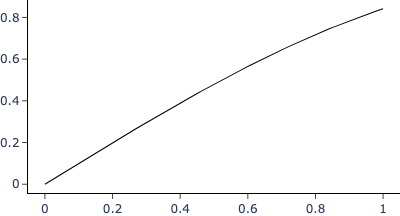
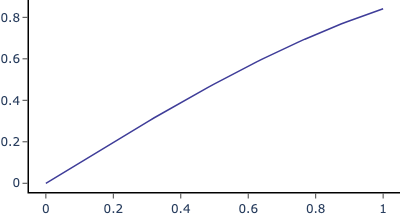
Colors, mesh

diff --git a/render.py b/render.py
@@ -1,4 +1,5 @@
 import numpy as np
+import numpy.linalg as la
 import plotly.graph_objects as go
 
 import util
@@ -25,12 +26,16 @@ class FigureBuilder:
         self.color = "gray"
         self.thickness = 1.5
 
-    def set_color_rgb(self, rgb):
+    def set_color_rgb(self, rgb, ctx=None):
         assert len(rgb) == 3 or len(rgb) == 4
         t = "rgb" if len(rgb) == 3 else "rgba"
         args = ','.join(str(int(c*255)) for c in rgb)
-        self.color = f"{t}({args})"
-        print("color", self.color)
+        color = f"{t}({args})"
+        if ctx is None:
+            self.color = color
+            print("color", self.color)
+        else:
+            print(f"ctx {ctx} not supported")
 
     util.Timer("add_points")
     def add_points(self, vertices, points):
@@ -51,22 +56,32 @@ class FigureBuilder:
 
     util.Timer("add_lines")
     def add_lines(self, vertices, lines):
+
         if vertices is not None:
             lines = vertices[lines]
-        for line in lines:
-            if self.dim == 2:
-                scatter_line = go.Scatter(
-                    x = line[:,0], y = line[:,1],
-                    mode='lines', line=dict(color=self.color, width=self.thickness),
-                    showlegend=False
-                )
-            elif self.dim == 3:
-                scatter_line = go.Scatter3d(
-                    x = line[:,0], y = line[:,1], z = line[:,2],
-                    mode='lines', line=dict(color=self.color, width=self.thickness),
-                    showlegend=False
-                )
-            self.data.append(scatter_line)
+
+        # Concatenate lines, separating them with np.nan so they are
+        # drawn as multiple line segments with a break between them.
+        # We use nan instead of None so we can use nanmin and nanmax on the array.
+        single = [lines[0]]
+        for line in lines[1:]:
+            single.append([[np.nan] * self.dim])
+            single.append(line)
+        lines = np.vstack(single).reshape((-1, self.dim))
+
+        if self.dim == 2:
+            scatter_line = go.Scatter(
+                x = lines[:,0], y = lines[:,1],
+                mode='lines', line=dict(color=self.color, width=self.thickness),
+                showlegend=False
+            )
+        elif self.dim == 3:
+            scatter_line = go.Scatter3d(
+                x = lines[:,0], y = lines[:,1], z = lines[:,2],
+                mode='lines', line=dict(color=self.color, width=self.thickness),
+                showlegend=False
+            )
+        self.data.append(scatter_line)
 
     # TODO: move triangulation inside?
     util.Timer("add_mesh")
@@ -75,10 +90,6 @@ class FigureBuilder:
         if self.dim==3:
 
             vertices, polys = need_vertices(vertices, polys)
-
-
-            #{Hue[0.1, 0.7, 1], Hue[0.6, 0.6, 1], Hue[0.2, 0.6, .9], Hue[0, 0.7, 1], Hue[.75,0.5,1]}
-            
 
             with util.Timer("triangulate"):
                 ijks = []
@@ -89,18 +100,29 @@ class FigureBuilder:
                     ijks.extend(tris)
                 ijks = np.array(ijks)
 
+            lighting = dict(
+                ambient = 0.5,
+                roughness = 0.5,
+                diffuse = 1.0,
+                specular = 0.8,
+                fresnel = 0.1
+            )
+
             mesh = go.Mesh3d(
                 x=vertices[:,0], y=vertices[:,1], z=vertices[:,2],
                 i=ijks[:,0], j=ijks[:,1], k=ijks[:,2],
+                lighting = lighting,
+                lightposition = dict(x=10000, y=10000, z=10000),
                 # TODO: hmm, colorscale is figure-level, isn't it?
                 #showscale=self.options.showscale,
                 #colorscale=self.options.colorscale,
                 #colorbar=dict(thickness=10),
                 #intensity=vertices[:,2],
                 #color = "rgb(1,.72,.3,1)",
-                color = "rgba(250,180,75,250)",
+                color = self.color,
                 hoverinfo="none"
             )
+
 
         elif self.dim==2:
             # this is hacky because
@@ -138,7 +160,7 @@ class FigureBuilder:
                 data = np.hstack([(trace.x, trace.y, trace.z) for trace in self.data])
             else:
                 data = np.hstack([(trace.x, trace.y) for trace in self.data])
-            data_range = np.array([data.min(axis=1), data.max(axis=1)]).T
+            data_range = np.array([np.nanmin(data, axis=1), np.nanmax(data, axis=1)]).T
 
         #padding = (data_range[:,1] - data_range[:,0]) * 0.05
         #plot-range = np.array([data_range[:,0] - padding, data_range[:,1] + padding]).T
@@ -154,8 +176,9 @@ class FigureBuilder:
                     showspikes = False,
                     ticks="outside",
                     range = self.options.plot_range[i],
-                    #title = p,
                     linecolor = "black",
+                    linewidth = 1.5,
+                    title = None,
                     #showline = False
                     #ticks = None
                     #showticklabels=False
@@ -172,32 +195,43 @@ class FigureBuilder:
 
         elif self.dim == 3:
 
+            # Boxed
             if self.options.boxed:
                 vertices = np.array(np.meshgrid(*plot_range)).reshape((3,-1)).T
                 lines = [(i, i^k) for i in range(8) for k in [1,2,4] if not i&k]
+                # TODO: safe because this is last, but really should have push/pop?
+                self.set_color_rgb((0,0,0))
                 self.add_lines(vertices, lines)
+
+            # ViewPoint
+            vp = self.options.view_point
+            vp = vp / la.norm(vp) * la.norm((1.25, 1.25, 1.25))
+            xyz_to_dict = lambda xyz: {n: v for n, v in zip("xyz", xyz)}
+            camera = dict(eye = xyz_to_dict(vp))
 
             scene = dict(
                 aspectmode = "manual",
                 aspectratio = {p: self.options.box_ratios[i] for i, p in enumerate("xyz")},
+                camera = camera,
             )
             for i, p in enumerate("xyz"):
                 scene[p+"axis"] = dict(
                     visible = self.options.axes[i],
                     range = plot_range[i],
                     showbackground = False,
-                    title = p,
+                    title = "",
                     showline = True,
+                    showgrid = False,
                     linecolor = "black",
-                    linewidth = 1,
-                    showspikes=False,
+                    linewidth = 1.5,
+                    showspikes = False,
                     ticks="outside",
                 )
             layout = go.Layout(
                 margin = dict(l=0, r=0, t=0, b=0),
                 plot_bgcolor = "red", #'rgba(0,0,0,0)',
-                width=self.options.image_size[0],
-                height=self.options.image_size[1],
+                width = self.options.image_size[0],
+                height = self.options.image_size[1],
                 scene = scene,
             )
 

diff --git a/consumer.py b/consumer.py
@@ -84,6 +84,8 @@ class GraphicsOptions:
             # BoxRatios
             self.box_ratios = get_option("System`BoxRatios")            
 
+            # ViewPoint
+            self.view_point = get_option("System`ViewPoint")
 
         # full set - comment out as implemented
         alignment_point = get_option("System`AlignmentPoint")
@@ -134,7 +136,7 @@ class GraphicsOptions:
             view_projection = get_option("System`ViewProjection")
             clip_planes_style = get_option("System`ClipPlanesStyle")
             controller_linking = get_option("System`ControllerLinking")
-            view_point = get_option("System`ViewPoint")
+            #view_point = get_option("System`ViewPoint")
             axes_edge = get_option("System`AxesEdge")
             rotation_action = get_option("System`RotationAction")
             #box_ratios = get_option("System`BoxRatios")
@@ -230,6 +232,21 @@ class GraphicsConsumer:
 
     def process(self, expr):
 
+        def directives(ctx, expr):
+
+            print("yielding from ctx", ctx, expr.head)
+
+            if color := core.expression_to_color(expr):
+                rgba = color.to_rgba()
+                yield (sym.SymbolRGBColor, rgba, ctx)
+
+            elif expr.head == sym.SymbolEdgeForm:
+                for e in expr.elements:
+                    yield from directives("edge", e)
+
+            else:
+                print(f"uknown graphics element {expr.head}")
+
         if expr.head == sym.SymbolList:
             for e in expr:
                 yield from self.process(e)
@@ -249,12 +266,8 @@ class GraphicsConsumer:
         elif expr.head in (sym.SymbolPoint, sym.SymbolPointBox):
             yield from self.item(sym.SymbolPoint, expr.elements[0], wanted_depth=2)
 
-        elif color := core.expression_to_color(expr):
-            rgba = color.to_rgba()
-            yield (sym.SymbolRGBColor, rgba)
-            
         else:
-            print(f"uknown graphics element {expr.head}")
+            yield from directives(None, expr)
 
     def items(self):
 

diff --git a/demos/demo_050_3d_grid.m b/demos/demo_050_3d_grid.m
@@ -3,7 +3,7 @@ Grid[{
         "This",
         Plot3D[
             Sin[x]*Cos[y], {x,0,10}, {y,0,10},
-            PlotPoints->{200,200}, Axes->False
+            Axes->False
         ],
 
         "is a"
@@ -11,7 +11,7 @@ Grid[{
     {
         Plot3D[
             Sin[(x^2+y^2)] / Sqrt[x^2+y^2+1], {x,-3,3}, {y,-3,3},
-            PlotPoints->{200,200}, Axes->False
+            Axes->False
         ],
         "grid",
         x+y^2

diff --git a/demos/demo_180_man_eex.m b/demos/demo_180_man_eex.m
@@ -1,8 +1,9 @@
 Manipulate[
     Plot3D[
-        {-Abs[Exp[Exp[x + I y]]], -1}, {x,-xlim,xlim}, {y,-ylim,ylim},
-        PlotPoints->{200,200},
-        PlotRange->{Automatic, Automatic, {-zlim,2}}
+        {Exp[Exp[x + I y]], 1},
+        {x,-xlim,xlim}, {y,-ylim,ylim},
+        PlotRange->{Automatic, Automatic, {-2,zlim}},
+        BoxRatios->{1,1,1}
     ],
     {{xlim,1.5}, 1, 2, 0.05},
     {{ylim,6}, 1, 10, 0.1},

diff --git a/demos/demo_020_man_3d_sinsqrt.m b/demos/demo_020_man_3d_sinsqrt.m
@@ -1,7 +1,7 @@
 Manipulate[
     Plot3D[
         Sin[(x^2+y^2)*freq] / Sqrt[x^2+y^2+1] * amp, {x,-3,3}, {y,-3,3},
-        PlotPoints -> {200,200}, PlotRange -> {Automatic, Automatic, {-0.25,0.5}}
+        PlotRange -> {Automatic, Automatic, {-0.25,0.5}}
     ],
     {{freq,1.0}, 0.1, 2.0, 0.2}, (* freq slider spec *)
     {{amp,1.0}, 0.0, 2.0, 0.2}  (* amp slider spec *)

diff --git a/fe_browser.py b/fe_browser.py
@@ -57,6 +57,7 @@ class BrowserFrontEnd(DashFrontEnd):
             print("===", fn)
             s = open(fn).read()
             output = self.process_input(s)
+            s = f"(* {fn} *)\n" + s
             pair = self.pair(s, output)
             init_pairs.append(pair)
         self.app.layout = dash.html.Div([*init_pairs, self.pair()], id=self.top_id)

diff --git a/demos/small.m b/demos/small.m
@@ -1,10 +1,3 @@
-(*
-Plot3D[
-   Sin[x^2+y^2] / Sqrt[x^2+y^2+1], {x,-3,3}, {y,-3,3},
-   PlotPoints -> {20,20}, ColorFunction->"viridis", PlotLegends->BarLegend["viridis"]
-]
- *)
-
 Plot3D[
    Sin[x^2+y^2] / Sqrt[x^2+y^2+1], {x,-3,3}, {y,-3,3},
    PlotPoints -> {2,2}, MaxRecursion->0, ColorFunction->"viridis", PlotLegends->BarLegend["viridis"]

diff --git a/demos/demo_040_3d_row.m b/demos/demo_040_3d_row.m
@@ -2,12 +2,12 @@ Row[{
     "This",
     Plot3D[
         Sin[x]*Cos[y], {x,0,10}, {y,0,10},
-        PlotPoints->{200,200}, Axes->False
+        Axes->False
     ],
     "is a",
     Plot3D[
         Sin[(x^2+y^2)] / Sqrt[x^2+y^2+1], {x,-3,3}, {y,-3,3},
-        PlotPoints->{200,200}, Axes->False
+        Axes->False
     ],
     "row"
 }]

diff --git a/demos/demo_070_mixed.m b/demos/demo_070_mixed.m
@@ -2,6 +2,6 @@
 (* TODO: mathjax makes nested exponents too small? can it be tweaked? *)
 Foo[
     x+y, x+y^2^3^4^x, Nest[Sin[a+b]+Cos[3z]], "hi",
-    Plot3D[Sin[x]*Cos[y], {x,-3,3}, {y,-3,3}, PlotPoints -> {200,200}, Axes->False]
+    Plot3D[Sin[x]*Cos[y], {x,-3,3}, {y,-3,3}, Axes->False]
 
 ]

diff --git a/demos/plots.m b/demos/plots.m
@@ -7,8 +7,7 @@ Grid[{{
     Manipulate[
         Plot3D[
             Sin[x]*Cos[y]*a,
-            {x,0,10}, {y,0,10},
-            PlotPoints->{200,200},
+            {x,0,10}, {y,0,10}
             Axes -> {True,True,True},
             PlotRange -> {Automatic, Automatic, {-2,2}}
         ],

diff --git a/demos/demo_200_options.m b/demos/demo_200_options.m
@@ -1,8 +1,5 @@
 Plot3D[
     Sin[x^2+y^2] / Sqrt[x^2+y^2+1], {x,-3,3}, {y,-3,3},
-    PlotPoints -> {200,200},
-    ColorFunction->"viridis",
-    PlotLegends->BarLegend["viridis"],
     Axes->{True,False,False}
     (*Boxed->False*)
     (*Axes->{True,False,False}*)

diff --git a/demos/demo_010_3d_sinsqrt.m b/demos/demo_010_3d_sinsqrt.m
@@ -1,4 +1,3 @@
 Plot3D[
-   Sin[x^2+y^2] / Sqrt[x^2+y^2+1], {x,-3,3}, {y,-3,3},
-   PlotPoints -> {200,200}, ColorFunction->"viridis", PlotLegends->BarLegend["viridis"]
+   Sin[x^2+y^2] / Sqrt[x^2+y^2+1], {x,-3,3}, {y,-3,3}
 ]
